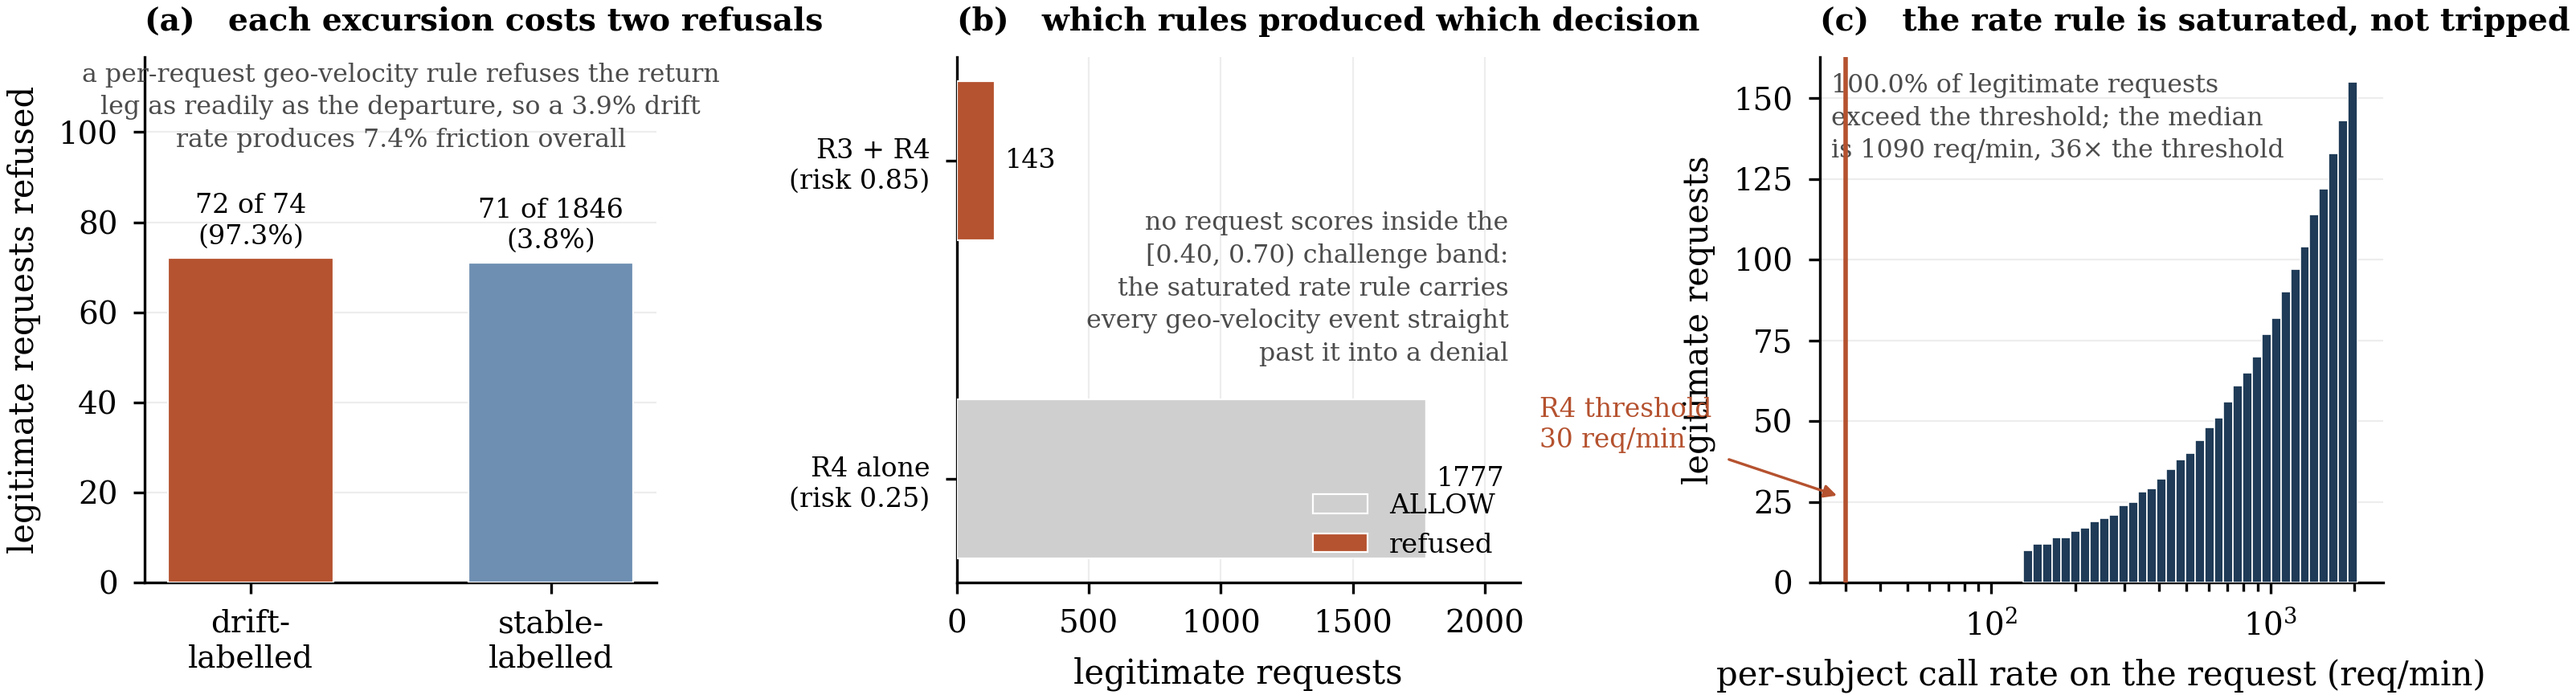
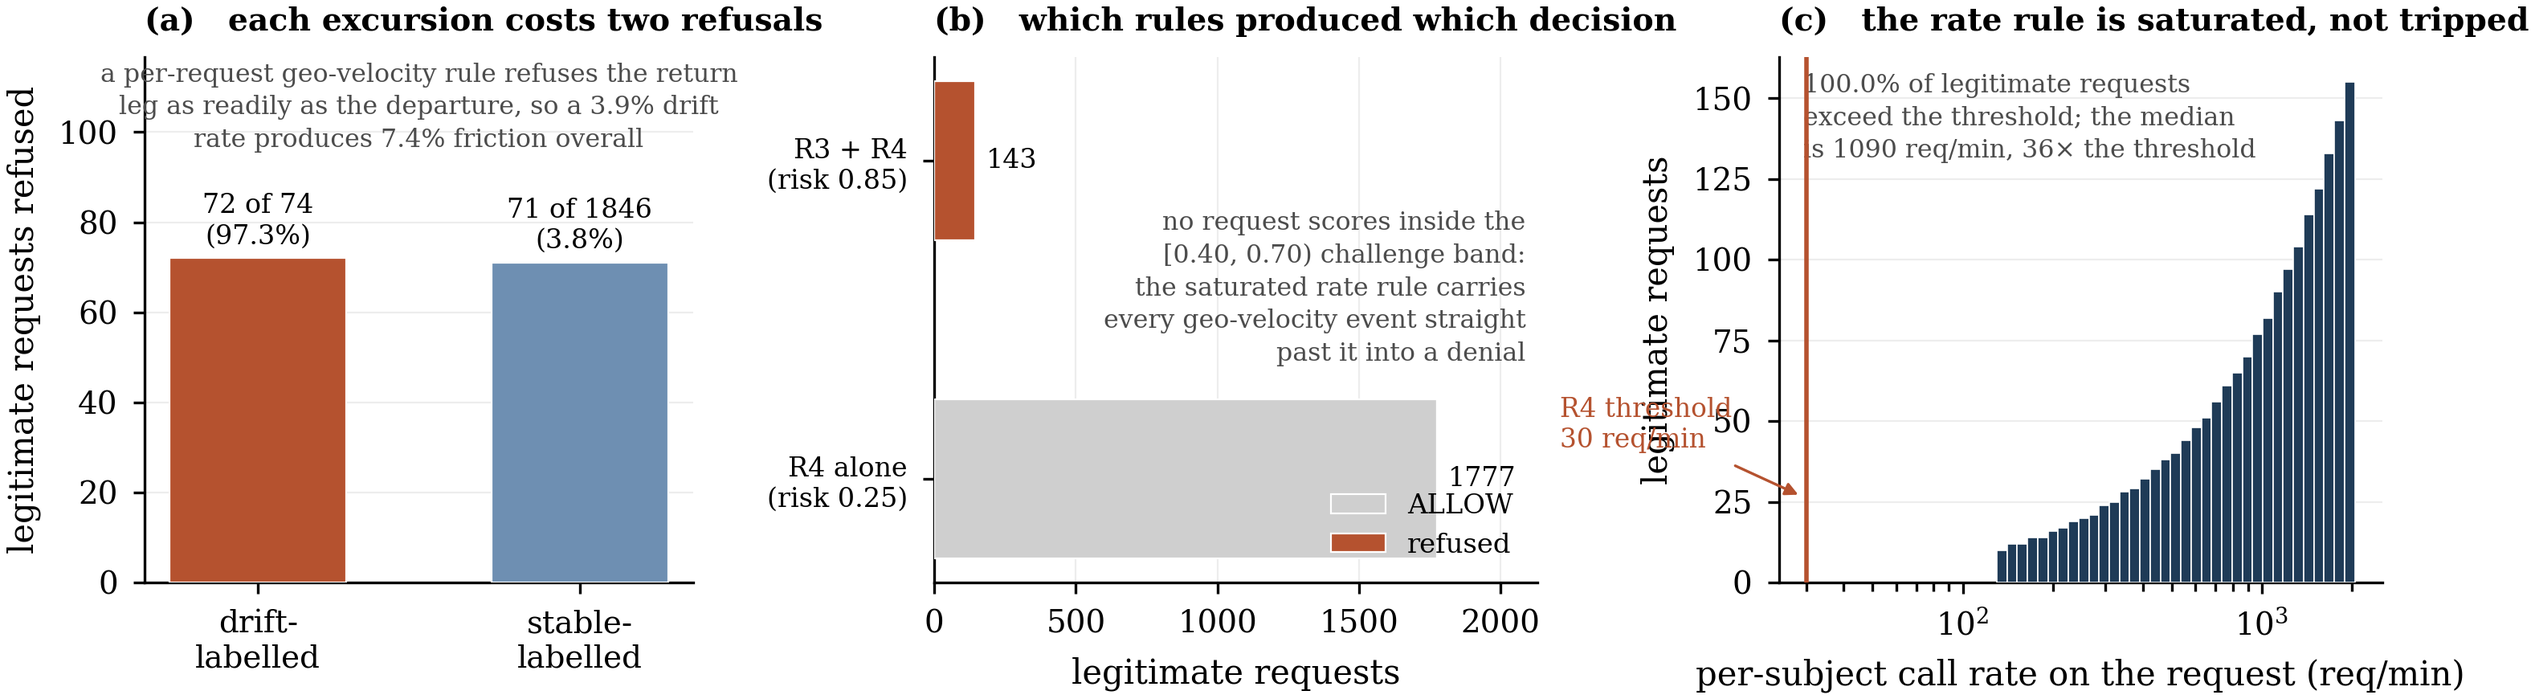
Revise the manuscript against its own simulated review
The review in paper/ASSESSMENT.md raised four things that writing could fix
rather than defer to an experiment, and they are applied here.

The abstract ran to about 600 words, more than twice what the venue's
convention allows. It is cut to 261 and preceded by a five-bullet highlights
list, each bullet within the 85-character limit.

The internal trust boundary is now named as the tension it is. A testbed for
Zero Trust enforcement, whose premise is that network position should not
confer trust, grants exactly that trust on its own most sensitive internal hop:
the resource server accepts the controller on the strength of a header. The
assumption is sound as a model of network isolation and is orthogonal to every
result, since no attack in the suite is positioned inside the boundary, but a
reviewer will notice it and the manuscript should notice it first.

A5 is refused identically in all three configurations because ownership lives
downstream, which leaves the taxonomy with no authorization attack the
enforcement layer can act on. The manuscript now names the variant that would
-- a consent-scope violation evaluated at the policy decision point, on data
the testbed already generates and the policy never reads -- and records the
omission in the limitations rather than leaving it implicit in a null result.

paper/ASSESSMENT.md gains that experiment as E-6 with its rationale and
metrics, a note on the manuscript's length and what to cut first if it must
[…]

diff --git a/analysis/paper_figures.py b/analysis/paper_figures.py
@@ -1209,11 +1209,11 @@ def fig12_friction_anatomy():
     above = float((rate > 30).mean())
     med = float(np.median(rate))
     ax.annotate("R4 threshold\n30 req/min", xy=(30, ax.get_ylim()[1] * 0.16),
-                xytext=(2.4, ax.get_ylim()[1] * 0.30), fontsize=5.9,
+                xytext=(4.5, ax.get_ylim()[1] * 0.30), fontsize=5.9,
                 color=C_ACCENT, ha="left", va="center", linespacing=1.25,
                 arrowprops=dict(arrowstyle="-|>", color=C_ACCENT, lw=0.6,
                                 shrinkA=2, shrinkB=2))
-    ax.text(0.02, 0.97, f"{above:.1%} of legitimate requests\n"
+    ax.text(0.04, 0.97, f"{above:.1%} of legitimate requests\n"
                         f"exceed the threshold; the median\n"
                         f"is {med:.0f} req/min, {med / 30:.0f}× the threshold",
             transform=ax.transAxes, ha="left", va="top", fontsize=5.7,

diff --git a/paper/manuscript.md b/paper/manuscript.md
@@ -1,12 +1,16 @@
 # Continuous Zero Trust Enforcement over a FAPI 2.0 Baseline: What It Adds, What It Costs, and Where It Fails
 
+**Highlights**
+
+- FAPI 2.0 sender-constraining alone ends token replay and theft, for +0.60 ms
+- Continuous Zero Trust changed the outcome of one of six attacks, then lost it
+- An adversary who merely slows down defeats it 30/30; the baseline result was 11/30
+- The unforgeable device signal was priced 0.05 below the decision threshold
+- Policy round trip costs 9.39 ms; DPoP verification costs 0.19 ms
+
 **Abstract**
 
-The Financial-grade API (FAPI) 2.0 Security Profile reached Final status in February 2025 and mandates sender-constrained access tokens via mTLS or DPoP. Sender-constraining removes an entire class of Open Banking attacks — network replay and reuse of a token stolen without its key — and commodity identity infrastructure now implements it. This reframes a question that the Zero Trust literature for financial APIs has not answered with measurement: once a deployment is already FAPI 2.0-correct, what does an additional layer of continuous, context-bound enforcement actually add, at what operational cost, and against which adversaries? We build a reproducible, fully synthetic Open Banking testbed — a Basiq-isomorphic Accredited Data Recipient API, a Keycloak identity provider configured to the FAPI 2.0 DPoP profile, and a Zero Trust controller performing per-request device-binding, telemetry collection, rule-based risk scoring, and adaptive `ALLOW`/`CHALLENGE`/`DENY` decisions through an external policy engine — and evaluate three configurations under an identical executable attacker suite: a plain bearer baseline (B0), a FAPI 2.0/DPoP baseline (B1), and the continuous-enforcement system (P).
-
-The measured answer is narrow and, in its most consequential part, negative. B1 alone takes network replay and token-theft-without-key from certain success to zero (30/30 to 0/30; risk difference −1.00) for a median cost of 0.60 ms; continuous enforcement adds nothing against them. Of the three attacks B1 cannot stop, continuous enforcement changes the outcome of exactly one — account takeover from a newly enrolled device, reduced from 30/30 to 11/30 (risk difference −0.633, 95% CI [−0.806, −0.461]) — and leaves device-resident key abuse and volume abuse untouched at 30/30. Reading the controller's own per-request records shows that even the one success is fragile: the adversary is refused only while one of two transient signals happens to fire, both artefacts of sliding-window bookkeeping rather than properties of the adversary, and the single signal the adversary cannot forge is priced 0.35 against a 0.40 challenge threshold and so cannot change a decision alone. We therefore measure the same takeover played by an adversary who paces below the rate rule and mimics the victim's self-reported context — capabilities the threat model already grants — and it succeeds on 30 of 30 attempts. A one-step threshold recalibration identified by a sweep over the recorded risk scores blocks both the naive and the adaptive adversary completely, at identical measured friction on legitimate traffic, which locates the failure in the operating point rather than in the signal for this adversary; for device-resident abuse no threshold works, because the only rule addressing it fires on 100% of legitimate requests at a median of 36 times its own threshold.
-
-The cost is substantial and misattributed by design intuition. Continuous enforcement adds 6.2 ms at the median and 27.6 ms at p99 (Cliff's δ = 0.58, large), 11.5 percentage points of controller CPU and 5.0 MiB of memory, and refuses 7.4% of legitimate requests — 97.3% of those whose context drifts. Cryptography is not the cost: DPoP proof verification takes 0.19 ms, about 1% of a request, while a single round trip to the out-of-process policy engine takes 9.39 ms, 55% of the request and more than the backend call it guards. An ablation attributes the entire usability cost to the contextual component and shows no single component reduces the takeover below 0.967. We release the testbed, attack suite, raw records and analysis pipeline. Our contribution is not a new mechanism but a measured characterization of the security/cost boundary of continuous Zero Trust enforcement over a modern financial-API baseline, including a negative result about the robustness of its one demonstrated benefit and a validated remedy for it.
+FAPI 2.0 mandates sender-constrained access tokens, which ends network replay and reuse of tokens stolen without their key. This reframes an unanswered question: what does a further layer of continuous, context-bound Zero Trust enforcement add to an already FAPI 2.0-correct Open Banking deployment, and at what cost? We build a reproducible synthetic testbed — a Basiq-isomorphic resource API, a Keycloak identity provider on the FAPI 2.0 DPoP profile, and a controller performing per-request device-binding, telemetry, rule-based risk scoring and adaptive allow/challenge/deny — and evaluate a bearer baseline, a FAPI 2.0 baseline and continuous enforcement under one attacker suite. Sender-constraining alone takes replay and token theft from 30/30 successes to 0/30 for a median 0.60 ms. Of the three attacks it cannot stop, continuous enforcement changes one: account takeover from a new device, 30/30 to 11/30 (risk difference −0.633, 95% CI [−0.806, −0.461]). Per-request records show those successes to be a sliding-window artefact: the one signal the adversary cannot forge is priced 0.35 against a 0.40 threshold and is inert alone. An adversary who paces their requests and mimics context — both already in the threat model — succeeds 30/30. Recalibrating the threshold to 0.30 refuses that adversary completely at identical measured friction, locating the failure in the operating point; for device-resident abuse no threshold works, as the only applicable rule fires on all legitimate traffic. Enforcement costs 6.2 ms median and 27.6 ms p99 (Cliff's δ = 0.58), 11.5 pp CPU, and refusal of 7.4% of legitimate requests. Cryptography is 1% of the cost; one policy round trip is 55%.
 
 **Keywords:** Open Banking; FAPI 2.0; DPoP; Zero Trust; continuous authorization; account takeover; adaptive adversary; empirical security evaluation.
 
@@ -340,7 +344,7 @@ Every number below is produced by the released pipeline and traces to a named fi
 
 **The baseline is defenceless against the other three, and continuous enforcement changes one of them.** A3, A4 and A6 all succeed on 30 of 30 attempts under B1, as the threat model predicts: in A3 and A6 the adversary holds the account's own key, and in A4 the adversary's token is genuinely bound to the adversary's own key. Under P, A3 and A6 are unchanged at 30/30 and A4 falls to 11/30.
 
-**A5 does not discriminate between configurations and should not be read as evidence for any of them.** It is refused in all three, including B0, because object-level ownership is enforced at the resource server and not by the enforcement layer under test. We report it for completeness of the taxonomy, and note that a system whose BOLA defence lives entirely downstream of the enforcement layer gets no credit for that defence.
+**A5 does not discriminate between configurations and should not be read as evidence for any of them.** It is refused in all three, including B0, because object-level ownership is enforced at the resource server and not by the enforcement layer under test. We report it for completeness of the taxonomy, and note that a system whose BOLA defence lives entirely downstream of the enforcement layer gets no credit for that defence. The variant that *would* exercise the enforcement layer is a consent-scope violation evaluated at the policy decision point — a request within the subject's own objects but outside the scope its consent covers — which this testbed models in its data but does not check in its policy, and which we identify as the more informative attack to implement (§12).
 
 **A3 is the attack the contextual layer exists for, and the contextual layer does not touch it.** `table7_risk_components.csv` shows why: the only rule that fires across A3's requests is the call-rate rule, on 30.0% of them, contributing 0.25 against a challenge threshold of 0.40. A request that trips the velocity rule and nothing else is allowed. A6 fails for exactly the same reason and records exactly the same mean risk of 0.075 — the same value as A5, an attack that has nothing to do with volume.
 
@@ -584,6 +588,8 @@ A functional demonstration is not a security argument. This section separates wh
 
 The trust assumptions of §5.3 are assumed, not established. In particular, the resource server accepts requests from the controller on the basis of an internal header on a private network, which is a network-isolation assumption rather than an authenticated channel. An adversary with network access inside the trust boundary bypasses the entire enforcement layer in one step. A production deployment would use mutual TLS between controller and resource server, and we have not evaluated that configuration.
 
+We note the tension deliberately rather than leaving a reviewer to find it: a testbed for Zero Trust enforcement, whose premise is that position inside a network should not confer trust, grants exactly that trust on its own most sensitive internal hop. The assumption is sound as a model of the network isolation a deployment would provide, and it is orthogonal to every result in §9, because no attack in the suite is positioned inside the boundary. It is nonetheless the weakest link in the artefact, and mutual TLS on that hop is on the list of changes in the accompanying assessment.
+
 ### 10.4 Residual attack surface and bypass paths
 
 - **The unforgeable signal is priced below the decision threshold.** This is the bypass the measurement found, and it requires no capability beyond §5.2. §9.6's recalibration closes it on this workload; whether it closes on a workload whose legitimate traffic occupies [0.30, 0.40) is an open question that the deployer must answer from their own telemetry.
@@ -662,7 +668,7 @@ That asymmetry is the practically useful output of §9.6, and it is available to
 
 **Generalizability.** Synthetic data and a mock resource server limit external validity: the results characterize authorization-semantic behaviour and per-request cost, not bank-specific data effects. Risk scoring is rule-based by deliberate design choice, for auditability and for the attributability the ablation depends on. A learned detector — which is what [6] suggests for exactly the A3/A6 regime where our rules fail — may well shift the security/false-positive trade-off, and that comparison is left to future work. **Our negative result for A3 and A6 is a result about this rule set at these thresholds on this workload, not about contextual detection in general**; what generalizes is the diagnosis in §9.6 of how to tell the two kinds of failure apart.
 
-**Components not evaluated.** Availability behaviour under policy-engine failure; key-registry growth over long horizons and many subjects; the challenge flow itself, since no legitimate request ever received one and the adversary requests that did were scored simply as refused; refresh-token rotation; consent lifecycle beyond the object-ownership check.
+**Components not evaluated.** Availability behaviour under policy-engine failure; key-registry growth over long horizons and many subjects; the challenge flow itself, since no legitimate request ever received one and the adversary requests that did were scored simply as refused; refresh-token rotation; and consent scope, which the synthetic dataset carries per user but which the policy never evaluates — so the one authorization check that could have discriminated between configurations at the policy decision point is absent from the measurement (§9.1).
 
 ---
 

diff --git a/paper/ASSESSMENT.md b/paper/ASSESSMENT.md
@@ -77,7 +77,9 @@ The mechanisms are standard integration. The novelty is in the measurement desig
 
 ### 2.8 Writing concerns
 
-The rewrite addresses the ones that applied to the prior draft: version-status notes, change logs, appendices containing instructions to the author, and "[FILL]"-era scaffolding are gone. Remaining watch items: §9 is long and the reader must be kept oriented (the RQ tags in the section headings do this); §11.4's four failure modes risk reading as a list rather than an argument; the abstract is at the upper bound of acceptable length for the venue and should be trimmed if the template requires it.
+The rewrite addresses the ones that applied to the prior draft: version-status notes, change logs, appendices containing instructions to the author, and "[FILL]"-era scaffolding are gone. The abstract has been cut from about 600 words to 261 and a five-bullet highlights list added, both within the venue's conventions.
+
+Remaining watch items. The manuscript runs to roughly 19 000 words including tables, captions, references and appendices — on the long side for the venue, though not out of range for a measurement paper with eleven tables. If it must be cut, §9.10 (scaling) and Appendix B are the least load-bearing, and §2 could lose a further paragraph. §9 is long and the reader must be kept oriented; the RQ tags in the subsection headings do this and should be kept through copy-editing. §11.4's four failure modes risk reading as a list rather than an argument.
 
 ---
 
@@ -95,7 +97,7 @@ Sufficient to support the paper's claims as now written, which are deliberately 
 
 **3. What additional experiments should I run?**
 
-E-1 and E-2 are required; E-3 and E-4 are strongly recommended. See §4.
+E-1 and E-2 are required; E-3, E-4, E-5 and E-6 are strongly recommended. See §4.
 
 **4. Does the system itself need modification?**
 
@@ -201,14 +203,23 @@ For each: why it is needed, the research question it answers, what to implement,
 - *Strengthening result.* It would let the paper quote a friction number that means something outside the testbed. The structural finding — two refusals per excursion — should survive, and showing that it does would be valuable.
 - *Affects the core contribution.* No; it affects how quotable the usability numbers are.
 
+**E-6. Consent-scope enforcement at the policy decision point.**
+- *Why.* A5 is refused identically in all three configurations because ownership is enforced downstream, so the taxonomy currently contains no authorization attack that the enforcement layer can act on (§9.1, §12). The synthetic dataset already carries a consent object per user, listing the accounts the consent covers; the policy never reads it.
+- *Question.* Does moving an authorization decision into the PDP change the outcome of an attack that object-level ownership cannot catch — specifically, a request within the subject's own objects but outside its consent scope?
+- *Implement.* Pass the subject's active consent into the policy input document and add a scope rule to `zt.rego`; add an attack that reads an account the subject owns but whose consent does not cover.
+- *Metrics.* Attack success rate by configuration; added policy-stage latency.
+- *Baseline.* B1, which has no policy engine and would allow it.
+- *Strengthening result.* It would give the taxonomy one authorization attack that discriminates between B1 and P, which the current six do not, and it would exercise the PDP on something other than a risk threshold.
+- *Affects the core contribution.* It broadens it: the paper currently measures the contextual layer only, not the policy layer's authorization capability.
+
 ### C. Optional
 
-**E-6. Colocated or cached policy decision point.** The cost decomposition asserts that an in-process PDP or a decision cache removes most of the 9.39 ms. Measuring it converts an assertion into a result and gives deployers a number. Low effort, since the rule set is deterministic with a small input space.
+**E-7. Colocated or cached policy decision point.** The cost decomposition asserts that an in-process PDP or a decision cache removes most of the 9.39 ms. Measuring it converts an assertion into a result and gives deployers a number. Low effort, since the rule set is deterministic with a small input space.
 
-**E-7. Mutual TLS between controller and resource server.** Closes the M6 irony and lets the paper state a trust boundary it actually enforces rather than assumes.
+**E-8. Mutual TLS between controller and resource server.** Closes the M6 irony and lets the paper state a trust boundary it actually enforces rather than assumes.
 
-**E-8. mTLS-based sender-constraining as a second baseline arm.** Completes the FAPI 2.0 comparison and would show whether the "cryptography is cheap" result holds when the crypto is a TLS handshake rather than a signature check.
+**E-9. mTLS-based sender-constraining as a second baseline arm.** Completes the FAPI 2.0 comparison and would show whether the "cryptography is cheap" result holds when the crypto is a TLS handshake rather than a signature check.
 
-**E-9. Adversary strategies beyond A7.** A drifting adversary who moves once and then stays (defeating the geo rule by remaining consistent); an adversary who lowers a subject's legitimate rate before acting; an enrolment-time adversary. Each is a few dozen lines against the existing harness.
+**E-10. Adversary strategies beyond A7.** A drifting adversary who moves once and then stays (defeating the geo rule by remaining consistent); an adversary who lowers a subject's legitimate rate before acting; an enrolment-time adversary. Each is a few dozen lines against the existing harness.
 
 We deliberately do not recommend: more attack repetitions (30 per cell already gives intervals narrower than the effects being measured), more concurrency levels (the four measured already establish the fixed-tax shape), or additional statistical testing (the comparisons that matter are deterministic recomputations or have effect sizes reported).
